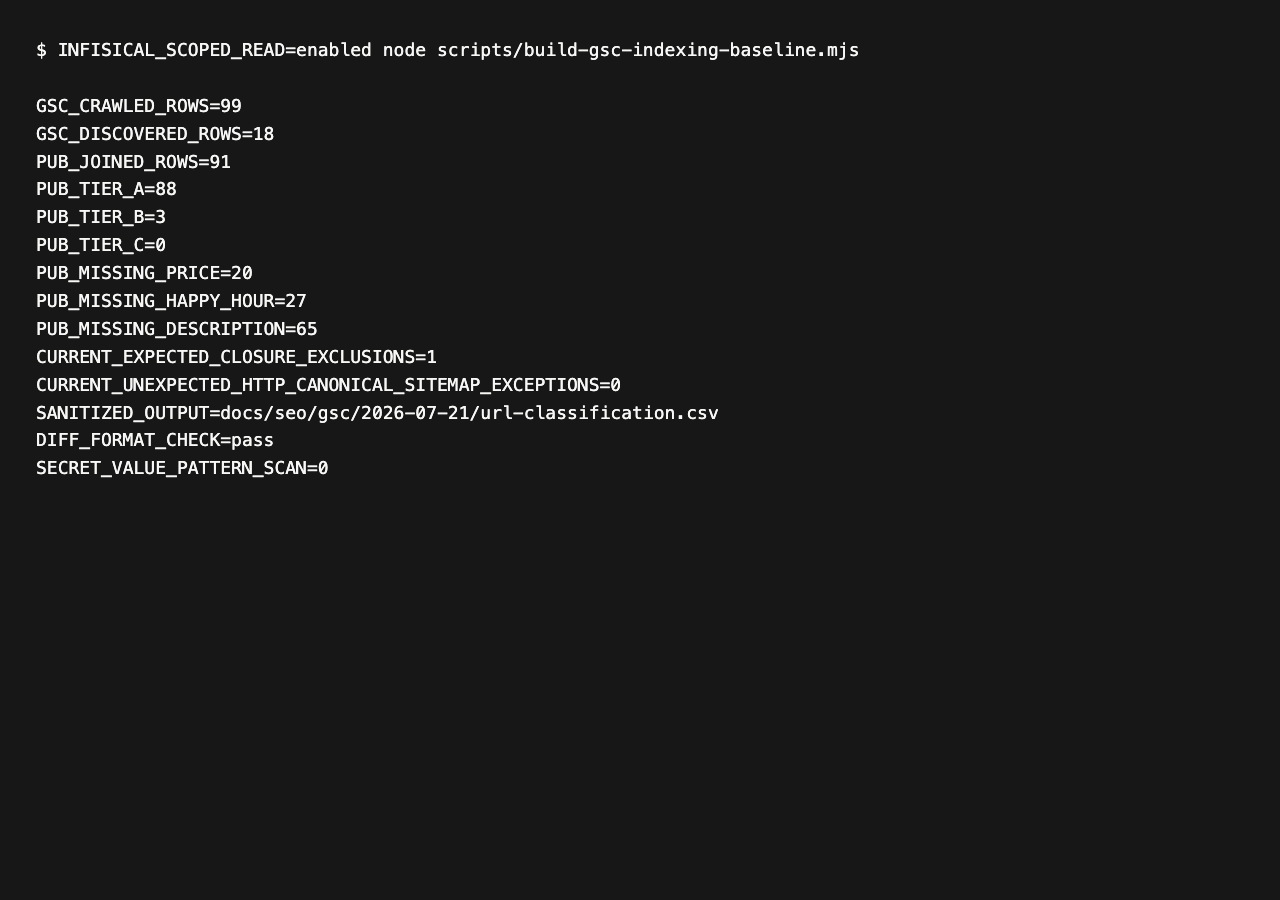
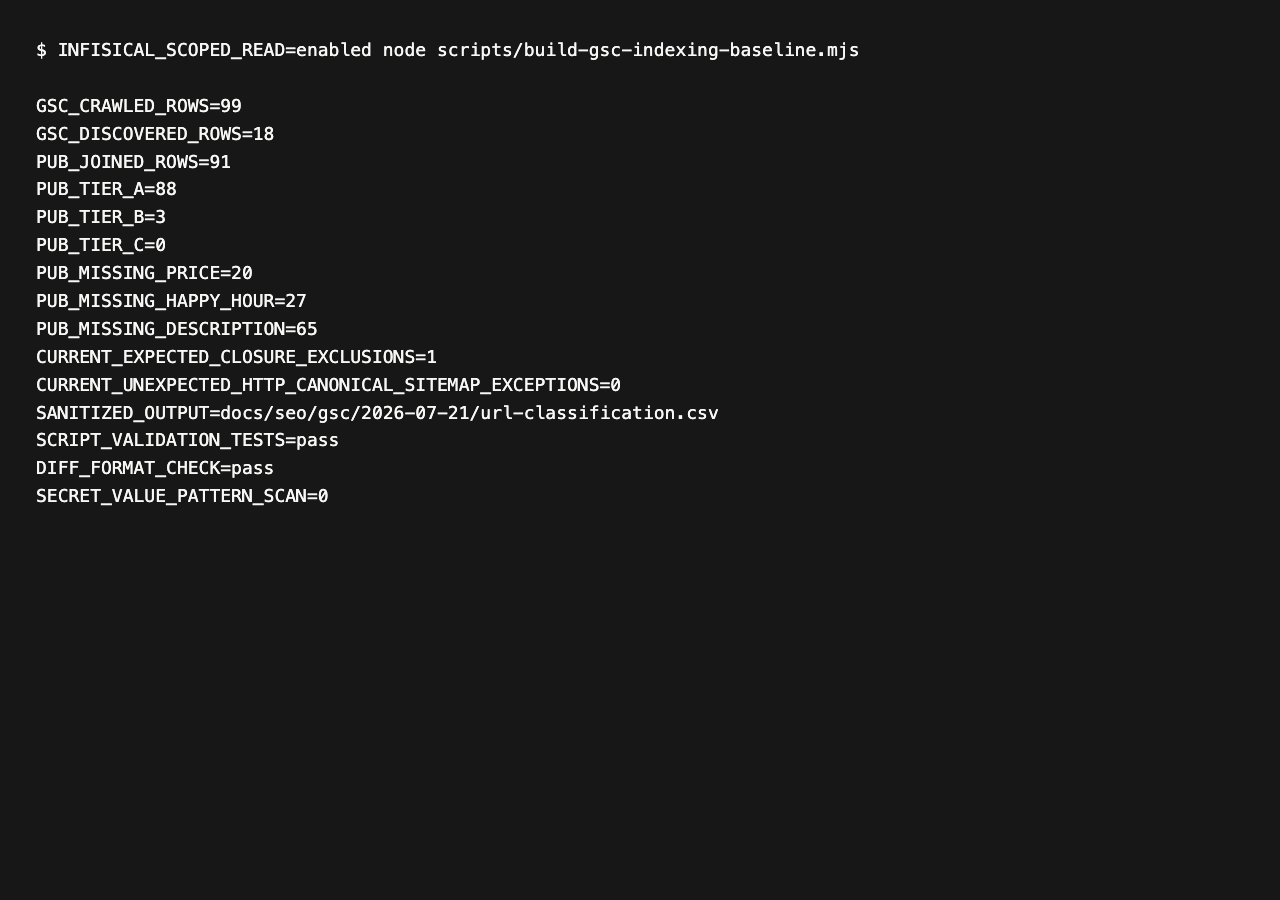
fix: harden GSC cohort refresh validation

Changed region(s): [[0.0312, 0.4667, 0.2812, 0.56]]

diff --git a/artifacts/gsc-indexing-229/terminal-proof.html b/artifacts/gsc-indexing-229/terminal-proof.html
@@ -19,6 +19,7 @@ PUB_MISSING_DESCRIPTION=65
 CURRENT_EXPECTED_CLOSURE_EXCLUSIONS=1
 CURRENT_UNEXPECTED_HTTP_CANONICAL_SITEMAP_EXCEPTIONS=0
 SANITIZED_OUTPUT=docs/seo/gsc/2026-07-21/url-classification.csv
+SCRIPT_VALIDATION_TESTS=pass
 DIFF_FORMAT_CHECK=pass
 SECRET_VALUE_PATTERN_SCAN=0
 </pre>

diff --git a/docs/seo/gsc/2026-07-21/README.md b/docs/seo/gsc/2026-07-21/README.md
@@ -7,9 +7,9 @@ Generated by `scripts/build-gsc-indexing-baseline.mjs` from authenticated, read-
 - GSC snapshot: **2026-07-10**; export: **2026-07-21**.
 - Crawled — currently not indexed: **99/99** classified.
 - Discovered — currently not indexed: **18/18** classified. Its `1970-01-01` export values are normalized to **N/A**, because GSC uses that value for unavailable crawl dates.
-- Current inventory context: **849 routable rows; 833 legitimate/indexable pubs; 16 independently confirmed permanent closures**. The segmented sitemap contains **32 content + 150 suburb + 833 pub = 1,015 URLs**.
+- Current inventory context: **849 routable rows; 833 legitimate/indexable pubs; 16 independently confirmed permanent closures**. The segmented sitemap contains **1015 URLs** (content 32; suburbs 150; pubs 833).
 - Suburb cohort: **1** URL(s). When zero, use the reconciled 150/150 current suburb directories context above.
-- Exchange Bar remains a documented stale-cohort example: it was listed as crawled-not-indexed but stored URL Inspection on 2026-07-21 showed it indexed. Federal Hotel is a separate missing-price representative: its live test was indexable, while stored GSC remained unknown.
+- Stored URL Inspection observations belong only in their dated source evidence; this refresh does not carry them forward unless supplied as input.
 
 ## Route mix
 
@@ -27,6 +27,10 @@ Generated by `scripts/build-gsc-indexing-baseline.mjs` from authenticated, read-
 
 Every legitimate cohort URL currently returned 200, self-canonical and sitemap-listed. One independently confirmed permanent closure is correctly excluded from the pub sitemap. GSC membership is therefore historical/recent-publication evidence, not a present price-quality indexability defect.
 
+## Initial HTML evidence
+
+`initial_html_useful` is deterministic and does not use a word count: the initial response must include an H1, at least one visible path link, and either a non-zero schema.org ItemList count (current answer/data) or methodology text. `initial_html_evidence` records all four observed values for every URL. This closes the evidence gap for each happy-hour day and transport hub.
+
 ## Actionable follow-through
 
 - **#235 (content depth):** use the CSV’s pub tier, price/happy-hour completeness and description fields to prioritize legitimate Tier C and missing-description pubs. These are enrichment cohorts only; none justify noindex or sitemap removal.
@@ -38,7 +42,7 @@ Every legitimate cohort URL currently returned 200, self-canonical and sitemap-l
 1. Export the two GSC tables through an authenticated read-only browser session outside the repo.
 2. Run the script with **Infisical injection** (never paste or save keys):
 
-`infisical run --projectId 3ae28e74-fc1f-4f02-beee-94100ba1e32f --env=prod -- node scripts/build-gsc-indexing-baseline.mjs --crawled /secure/cni/Table.csv --discovered /secure/dni/Table.csv`
+`infisical run --projectId 3ae28e74-fc1f-4f02-beee-94100ba1e32f --env=prod -- node scripts/build-gsc-indexing-baseline.mjs --report-date YYYY-MM-DD --export-date YYYY-MM-DD --output-dir docs/seo/gsc/YYYY-MM-DD --crawled /secure/cni/Table.csv --discovered /secure/dni/Table.csv`
 
 3. Inspect the generated CSV and terminal evidence; run `git diff --check` and secret scanning before committing.
 

diff --git a/artifacts/gsc-indexing-229/README.md b/artifacts/gsc-indexing-229/README.md
@@ -1,5 +1,5 @@
 # GSC #229 evidence
 
-`terminal-proof.txt` is the non-secret output of the repeatable classification run. `terminal-proof.png` is a faithful rendered capture of that output, inspected before this handoff. It records 99 crawled-not-indexed rows, 18 discovered-not-indexed rows, 91 joined pub rows, their data-field cohorts, the one expected permanent-closure sitemap exclusion, zero unexpected HTTP/canonical/sitemap exceptions, and the zero-result secret-value pattern scan.
+`terminal-proof.txt` is the non-secret output of the repeatable classification run. `terminal-proof.png` is a faithful rendered capture of that output, inspected before this handoff. It records 99 crawled-not-indexed rows, 18 discovered-not-indexed rows, 91 joined pub rows, their data-field cohorts, the one expected permanent-closure sitemap exclusion, zero unexpected HTTP/canonical/sitemap exceptions, strict validation-test success, and the zero-result secret-value pattern scan.
 
 The command used Infisical's scoped process injection and made public production GET requests plus one read-only `pubs` select. It does not contain export locations, sessions, credential values, or an indexing request.

diff --git a/docs/PROJECT-STATUS.md b/docs/PROJECT-STATUS.md
@@ -15,6 +15,7 @@ Stack, database, routes, components, and lib files are documented in `CLAUDE.md`
 - **Current-state result:** 91 cohort pub URLs joined to the read-only Infisical-backed inventory. Every legitimate cohort URL is currently `200`, self-canonical and in the correct segmented sitemap; one independently confirmed permanent closure is correctly excluded. Exchange Bar remains the concrete stale-report example because it is now indexed despite appearing in the older cohort.
 - **Actionable enrichment cohorts:** 20 pub URLs lack a price, 27 lack complete happy-hour data, and 65 lack a description; all remain legitimate and indexable. This is an honest content-depth queue for #235, not a noindex or sitemap-removal rule. The 18 N/A-crawl/new-content URLs and normal visible inbound-path evidence provide the #237 follow-up queue.
 - **Technical reconciliation:** the one historic Henley Brook canonical mismatch, two intentional section-root redirects, and every one of the historical 15 reported 404 URLs are inventoried alongside #236's production handling. Terminal proof and a faithful inspected PNG are in `artifacts/gsc-indexing-229/`.
+- **Refresh guardrails:** the baseline now requires explicit report/export dates and an output directory, derives live inventory and segmented-sitemap totals, and records no stored URL-Inspection example unless supplied as dated source evidence. It rejects malformed, missing, duplicate, dropped, and unjoined current pub-route rows; regression tests cover each failure class. Initial-HTML usefulness is now evidence-based (H1, visible path links, and ItemList data or methodology) for every row, including all seven day pages and four transport hubs.
 
 ### Honest segmented sitemap and crawl-control inventory (2026-07-21)
 - **Issue #232:** replaced the single mixed sitemap with a sitemap index and distinct content, suburb, and pub feeds. `/suburbs` is now an explicit canonical hub; redirecting `/guides` and `/insights`, World Cup, admin, API, signal, legacy, and invalid routes are absent.